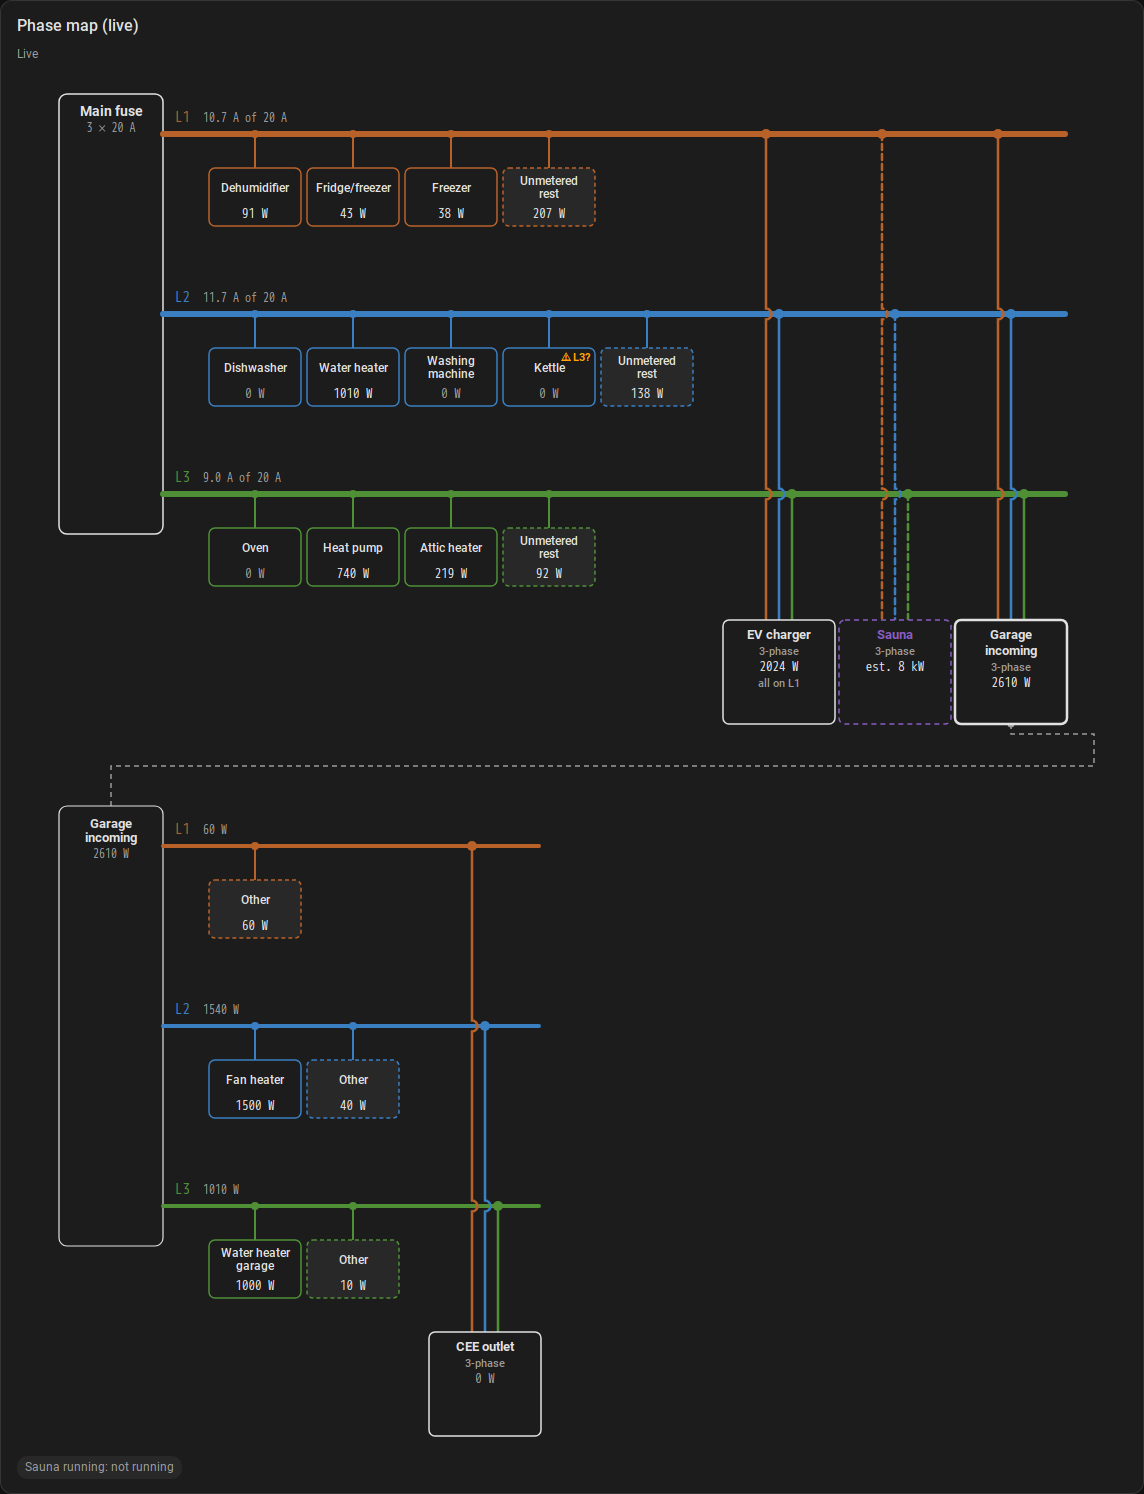
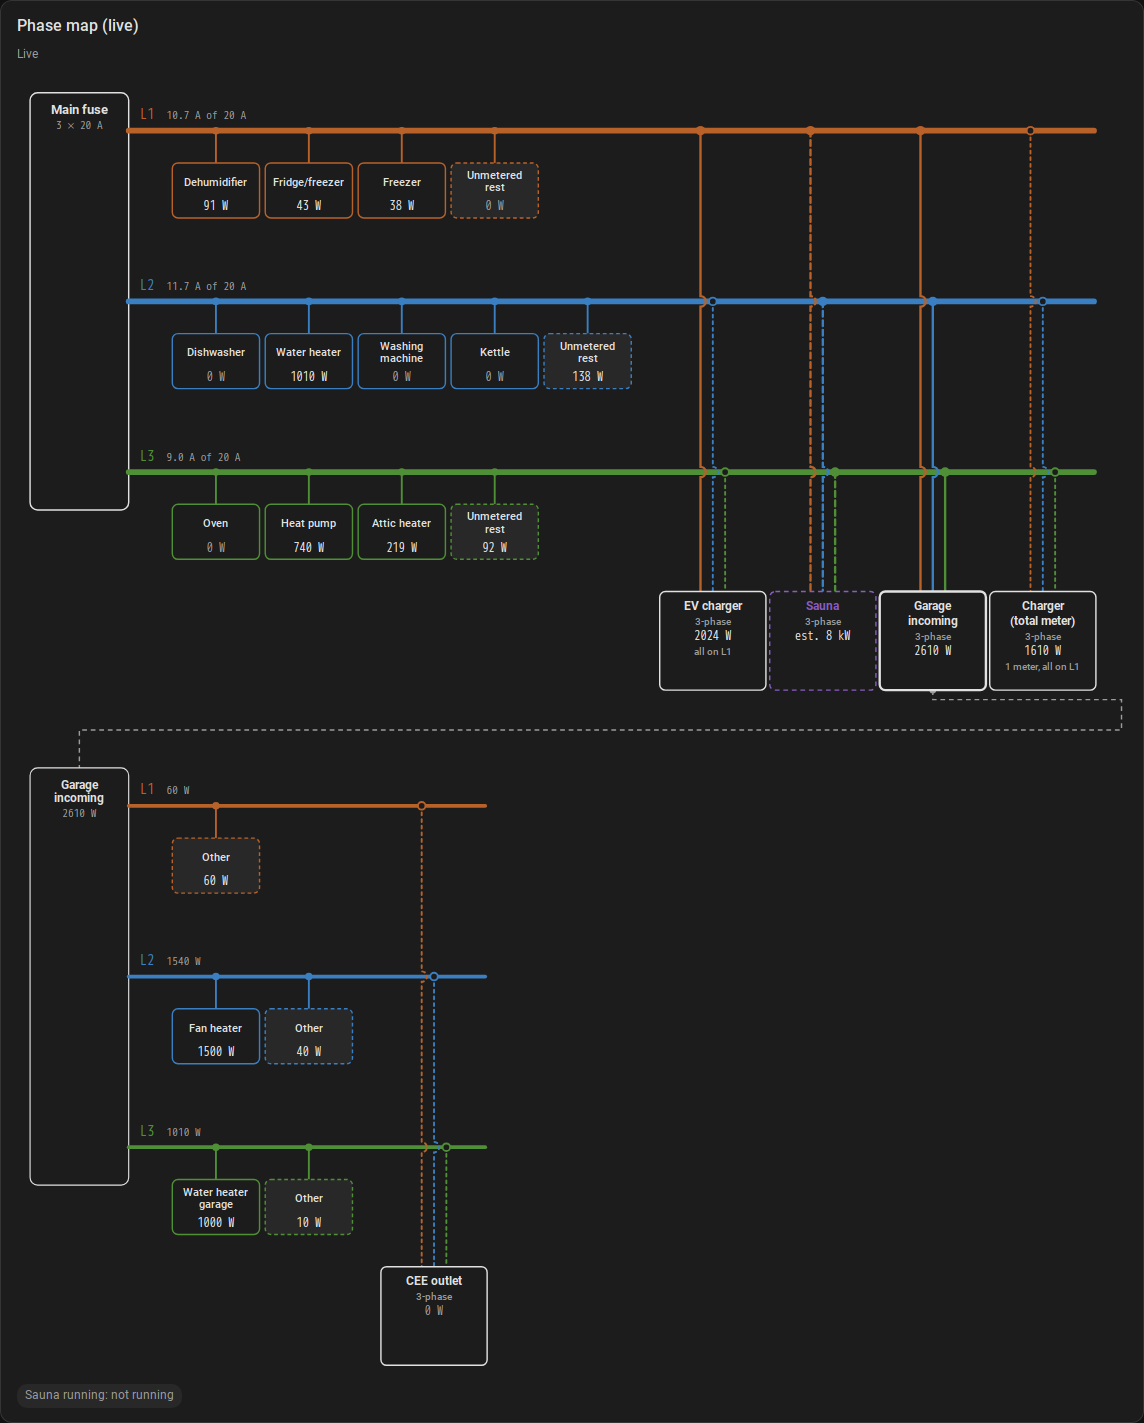
0.6.0: verified phases for multi-phase loads
Each multi-phase load reports the phases it has been seen drawing from.
With a meter per phase: the phase's meter showed at least 0.1 A, live or in
30 days of hourly max statistics. With one meter for several phases: the
main fuse or parent meter moved on that phase when the load switched, in
two live events or clearly in 10 days of statistics. A 3-phase charger
that has only charged a 1-phase car is verified on that phase only.

diff --git a/custom_components/phase_map/engine.py b/custom_components/phase_map/engine.py
@@ -46,10 +46,17 @@ from .const import (
     SUBENTRY_DETECTOR,
     SUBENTRY_LOAD,
 )
+from .detection import analyse, async_fetch_means
 from .hierarchy import descendants, effective_parents, split
-from .phase_check import POST_S, LoadCheck, PhaseChecker
+from .phase_check import LIVE_MIN_STEP_A, POST_S, LoadCheck, PhaseChecker
 
 _LOGGER = logging.getLogger(__name__)
+
+# A phase of a multi-phase load counts as verified once it has been seen carrying the load:
+VERIFY_A = 0.1            # a per-phase meter showed at least this much current (≈ 23 W; above meter noise)
+VERIFY_SHARE = 0.2        # one meter for several phases: the phase moved by this share of a step
+VERIFY_EVENTS = 2         # ... in this many live events
+VERIFY_HISTORY_DAYS = 30
 
 
 def to_amps(state: State | None, voltage: float) -> float | None:
@@ -159,6 +166,12 @@ class PhaseMapEngine:
         self.device_id: str | None = None   # the fuse device, set at setup
         self.checker = self._build_checker()
         self._pending: set = set()          # phase-check evaluations waiting for POST_S
+        # Multi-phase loads: the phases seen carrying them (others are drawn dashed)
+        self.verified: dict[str, set[str]] = {
+            load.subentry_id: set() for load in self.loads if len(load.phases) > 1 and not load.estimated
+        }
+        self._verify_hits: dict[str, dict[str, int]] = {lid: {} for lid in self.verified}
+        self._seed_task = None
 
     # --- phase check ---------------------------------------------------------------
 
@@ -241,6 +254,85 @@ class PhaseMapEngine:
         )
         self.recompute()
 
+    # --- verified phases of multi-phase loads ---------------------------------------
+
+    def _reference_for(self, load: LoadModel) -> tuple[dict[str, str], set[str]]:
+        """Upstream meters per phase for `load`, and meters that move with it anyway."""
+        by_id = {item.subentry_id: item for item in self.loads}
+        parent = self.parents.get(load.subentry_id)
+        reference = dict(by_id[parent].channels) if parent and by_id[parent].channels else dict(self.sources)
+        skip = set(self.sources.values()) | set(load.entities)
+        up = parent
+        while up:
+            skip.update(by_id[up].entities)
+            up = self.parents.get(up)
+        for child in descendants(self.loads, load.subentry_id):
+            if child in by_id:
+                skip.update(by_id[child].entities)
+        return reference, skip
+
+    def _verify_live(self, entity_id: str, old: float | None, new: float | None) -> None:
+        for load in self.loads:
+            if load.subentry_id not in self.verified:
+                continue
+            for phase, ent in load.channels.items():
+                if ent == entity_id and new is not None and abs(new) >= VERIFY_A:
+                    self.verified[load.subentry_id].add(phase)
+            if load.meter == entity_id and old is not None and new is not None and abs(new - old) >= LIVE_MIN_STEP_A:
+                self._schedule_meter_verify(load, self.checker.now(), new - old)
+
+    def _schedule_meter_verify(self, load: LoadModel, t_step: float, step_a: float) -> None:
+        @callback
+        def _evaluate(_now) -> None:
+            self._pending.discard(cancel)
+            reference, skip = self._reference_for(load)
+            response = self.checker.response(t_step, step_a, reference, skip)
+            if response is None:
+                return
+            sign = 1 if step_a > 0 else -1
+            hits = self._verify_hits[load.subentry_id]
+            changed = False
+            for phase, moved in response.items():
+                if phase in load.phases and moved * sign / abs(step_a) >= VERIFY_SHARE:
+                    hits[phase] = hits.get(phase, 0) + 1
+                    if hits[phase] >= VERIFY_EVENTS and phase not in self.verified[load.subentry_id]:
+                        self.verified[load.subentry_id].add(phase)
+                        changed = True
+            if changed:
+                self.recompute()
+
+        cancel = async_call_later(self.hass, POST_S, _evaluate)
+        self._pending.add(cancel)
+
+    async def _async_seed_verified(self) -> None:
+        """Phases already seen carrying each multi-phase load, from recorder statistics."""
+        def unit_of(entity_id: str) -> str | None:
+            state = self.hass.states.get(entity_id)
+            return state.attributes.get("unit_of_measurement") if state else None
+
+        try:
+            channel_ids = {e for load in self.loads if load.subentry_id in self.verified for e in load.channels.values()}
+            if channel_ids:
+                peaks = await async_fetch_means(self.hass, {e: unit_of(e) for e in channel_ids}, self.voltage,
+                                                VERIFY_HISTORY_DAYS, "hour", key="max")
+                for load in self.loads:
+                    for phase, ent in load.channels.items():
+                        if load.subentry_id in self.verified and any(abs(v) >= VERIFY_A for v in peaks.get(ent, {}).values()):
+                            self.verified[load.subentry_id].add(phase)
+            for load in self.loads:
+                if load.subentry_id not in self.verified or not load.meter:
+                    continue
+                reference, _ = self._reference_for(load)
+                ids = {load.meter, *reference.values()}
+                means = await async_fetch_means(self.hass, {e: unit_of(e) for e in ids}, self.voltage, 10, "5minute")
+                result = analyse(means.get(load.meter, {}), {p: means.get(e, {}) for p, e in reference.items()})
+                for phase, score in result.scores.items():
+                    if phase in load.phases and (score.gain or 0) >= VERIFY_SHARE and score.t >= 3:
+                        self.verified[load.subentry_id].add(phase)
+        except Exception as err:  # recorder missing or not ready  # noqa: BLE001
+            _LOGGER.debug("Could not read history to verify phases: %s", err)
+        self.recompute()
+
     @property
     def tracked_entities(self) -> list[str]:
         ids = set(self.sources.values())
@@ -252,6 +344,10 @@ class PhaseMapEngine:
         for entity_id in self.tracked_entities:
             self.checker.record(entity_id, to_amps(self.hass.states.get(entity_id), self.voltage))
         self._restore_issues()
+        if self.verified:
+            self._seed_task = self.hass.async_create_background_task(
+                self._async_seed_verified(), f"phase_map verify phases {self.entry.entry_id}"
+            )
         self._unsubs.append(
             async_track_state_change_event(self.hass, self.tracked_entities, self._on_state_change)
         )
@@ -268,6 +364,8 @@ class PhaseMapEngine:
         for cancel in self._pending:
             cancel()
         self._pending.clear()
+        if self._seed_task is not None and not self._seed_task.done():
+            self._seed_task.cancel()
 
     @callback
     def _on_state_change(self, event: Event[EventStateChangedData]) -> None:
@@ -275,6 +373,8 @@ class PhaseMapEngine:
         new = to_amps(event.data["new_state"], self.voltage)
         old = to_amps(event.data["old_state"], self.voltage)
         self.checker.record(entity_id, new)
+        if self.verified:
+            self._verify_live(entity_id, old, new)
         t_step = self.checker.step(entity_id, old, new)
         if t_step is not None:
             step_a = new - old
@@ -322,6 +422,8 @@ class PhaseMapEngine:
                 "a": {p: (round(a, 3) if a is not None else None) for p, a in own.items()},
                 "w": {p: (round(max(a, 0.0) * self.voltage) if a is not None else None) for p, a in own.items()},
             }
+            if load.subentry_id in self.verified:
+                row["verified"] = [p for p in load.phases if p in self.verified[load.subentry_id]]
             if load.meter:
                 row["meter"] = {"draw": load.draw if load.draw in load.connected else DRAW_EQUAL}
             if (check := self.checker.checks.get(load.subentry_id)) is not None:

diff --git a/tests/test_verified.py b/tests/test_verified.py
@@ -1,0 +1,91 @@
+"""Phases of a multi-phase load are verified once they have been seen carrying it."""
+
+from datetime import timedelta
+from unittest.mock import patch
+
+from freezegun.api import FrozenDateTimeFactory
+from homeassistant.config_entries import ConfigSubentryData
+from homeassistant.core import HomeAssistant
+from pytest_homeassistant_custom_component.common import MockConfigEntry, async_fire_time_changed
+
+from .conftest import SOURCES, set_amps
+
+EV = {"L1": "sensor.ev_l1", "L2": "sensor.ev_l2", "L3": "sensor.ev_l3"}
+
+
+def _entry(hass, subs):
+    entry = MockConfigEntry(
+        domain="phase_map", title="Main fuse",
+        data={"phases": ["L1", "L2", "L3"], "voltage": 230.0, "fuse_a": 20.0, "sources": SOURCES},
+        subentries_data=subs, unique_id="sensor.main_l1",
+    )
+    entry.add_to_hass(hass)
+    return entry
+
+
+def _row(entry, load_id):
+    return next(r for r in entry.runtime_data.payload()["loads"] if r["id"] == load_id)
+
+
+async def _setup(hass, subs, peaks=None):
+    async def fake_fetch(hass_, units, voltage, days, period, key="mean"):
+        if key == "max":
+            return {e: ({0.0: v} if v is not None else {}) for e, v in (peaks or {}).items() if e in units}
+        return {e: {} for e in units}
+
+    entry = _entry(hass, subs)
+    with patch("custom_components.phase_map.engine.async_fetch_means", side_effect=fake_fetch):
+        await hass.config_entries.async_setup(entry.entry_id)
+        await hass.async_block_till_done()
+    return entry
+
+
+async def test_one_phase_car_on_three_phase_charger(hass: HomeAssistant) -> None:
+    for e in SOURCES.values():
+        set_amps(hass, e, 3.0)
+    for e in EV.values():
+        set_amps(hass, e, 0.0)
+    sub = ConfigSubentryData(data={"name": "EV", "channels": EV}, subentry_id="sub_ev", subentry_type="load",
+                             title="EV", unique_id=None)
+    # history: the hybrid has only ever charged on L1
+    entry = await _setup(hass, [sub], peaks={"sensor.ev_l1": 16.0, "sensor.ev_l2": 0.0, "sensor.ev_l3": 0.0})
+    assert _row(entry, "sub_ev")["verified"] == ["L1"]
+    # a 3-phase car charges for the first time
+    set_amps(hass, "sensor.ev_l2", 10.0)
+    set_amps(hass, "sensor.ev_l3", 0.05)               # meter noise, does not count
+    await hass.async_block_till_done()
+    assert _row(entry, "sub_ev")["verified"] == ["L1", "L2"]
+
+
+async def test_single_phase_loads_have_no_verification(hass: HomeAssistant) -> None:
+    for e in SOURCES.values():
+        set_amps(hass, e, 3.0)
+    set_amps(hass, "sensor.kettle", 0.0)
+    entry = await _setup(hass, [ConfigSubentryData(data={"name": "Kettle", "channels": {"L2": "sensor.kettle"}},
+                                                   subentry_id="sub_k", subentry_type="load", title="Kettle",
+                                                   unique_id=None)])
+    assert "verified" not in _row(entry, "sub_k")
+
+
+async def test_one_meter_load_verified_from_main_fuse(hass: HomeAssistant, freezer: FrozenDateTimeFactory) -> None:
+    for e in SOURCES.values():
+        set_amps(hass, e, 3.0)
+    set_amps(hass, "sensor.cee", 0.0)
+    sub = ConfigSubentryData(data={"name": "CEE", "channels": {}, "meter": "sensor.cee",
+                                   "connected_phases": ["L1", "L2", "L3"], "draw": "equal"},
+                             subentry_id="sub_cee", subentry_type="load", title="CEE", unique_id=None)
+    entry = await _setup(hass, [sub])
+    assert _row(entry, "sub_cee")["verified"] == []
+    # a welder on L1 + L2 only, switched on and off twice
+    for _ in range(2):
+        for cee, l1, l2 in ((12.0, 9.0, 9.0), (0.0, 3.0, 3.0)):
+            freezer.tick(timedelta(seconds=30))
+            async_fire_time_changed(hass)
+            set_amps(hass, "sensor.main_l1", l1)
+            set_amps(hass, "sensor.main_l2", l2)
+            set_amps(hass, "sensor.cee", cee)
+            await hass.async_block_till_done()
+            freezer.tick(timedelta(seconds=11))
+            async_fire_time_changed(hass)
+            await hass.async_block_till_done()
+    assert _row(entry, "sub_cee")["verified"] == ["L1", "L2"]

diff --git a/custom_components/phase_map/phase_check.py b/custom_components/phase_map/phase_check.py
@@ -120,6 +120,9 @@ class PhaseChecker:
         self._clock = clock
         self.ignore_for: dict[str, set[str]] = {}   # load id -> entities that are not confounders
 
+    def now(self) -> float:
+        return self._clock()
+
     def record(self, entity_id: str, amps: float | None, t: float | None = None) -> None:
         self._series.setdefault(entity_id, _Series()).add(self._clock() if t is None else t, amps)
 
@@ -130,27 +133,40 @@ class PhaseChecker:
             return None
         return self._clock() if t is None else t
 
-    def evaluate(self, entity_id: str, t_step: float, step_a: float, now: datetime) -> str | None:
-        """Called POST_S after a step: record the vote, report a verdict change."""
-        check = self._by_entity.get(entity_id)
-        if check is None:
-            return None
+    def response(self, t_step: float, step_a: float, reference: dict[str, str],
+                 skip: set[str]) -> dict[str, float] | None:
+        """How much each reference phase moved around a step; None if spoiled or unknown.
+
+        Any tracked meter outside `skip` and the reference that moved by more than
+        CONFOUND_RATIO of the step in the same window spoils the event.
+        """
         before_t, after_t = t_step - PRE_S, t_step + POST_S
-        skip = {entity_id, *check.reference.values(), *self.ignore_for.get(check.load_id, set())}
+        skip = skip | set(reference.values())
         for other, series in self._series.items():
             if other in skip:
                 continue
             a, b = series.value_at(before_t), series.value_at(after_t)
             if a is not None and b is not None and abs(b - a) > CONFOUND_RATIO * abs(step_a):
                 return None
-        response: dict[str, float] = {}
-        for phase, ref in check.reference.items():
+        out: dict[str, float] = {}
+        for phase, ref in reference.items():
             series = self._series.get(ref)
             a = series.value_at(before_t) if series else None
             b = series.value_at(after_t) if series else None
             if a is None or b is None:
                 return None
-            response[phase] = abs(b) - abs(a)
+            out[phase] = abs(b) - abs(a)
+        return out
+
+    def evaluate(self, entity_id: str, t_step: float, step_a: float, now: datetime) -> str | None:
+        """Called POST_S after a step: record the vote, report a verdict change."""
+        check = self._by_entity.get(entity_id)
+        if check is None:
+            return None
+        skip = {entity_id, *self.ignore_for.get(check.load_id, set())}
+        response = self.response(t_step, step_a, check.reference, skip)
+        if response is None:
+            return None
         vote = classify(step_a, response)
         if vote is None:
             return None

diff --git a/custom_components/phase_map/detection.py b/custom_components/phase_map/detection.py
@@ -90,10 +90,10 @@ def analyse(meter: dict[float, float], phases: dict[str, dict[float, float]], st
     return Suggestion(best_phase, "high" if high else "medium", len(idx), scores, reason="ok")
 
 
-def _series(rows: list[dict[str, Any]], factor: float) -> dict[float, float]:
+def _series(rows: list[dict[str, Any]], factor: float, key: str = "mean") -> dict[float, float]:
     out = {}
     for row in rows:
-        mean = row.get("mean")
+        mean = row.get(key)
         if mean is None:
             continue
         start = row["start"]
@@ -108,9 +108,10 @@ def unit_factor(unit: str | None, voltage: float) -> float | None:
 
 
 async def async_fetch_means(
-    hass: HomeAssistant, entity_units: dict[str, str | None], voltage: float, days: float, period: str
+    hass: HomeAssistant, entity_units: dict[str, str | None], voltage: float, days: float, period: str,
+    key: str = "mean",
 ) -> dict[str, dict[float, float]]:
-    """Mean statistics in amps for several entities over the last `days`."""
+    """Mean (or max) statistics in amps for several entities over the last `days`."""
     from homeassistant.components.recorder import get_instance
     from homeassistant.components.recorder.statistics import statistics_during_period
 
@@ -118,12 +119,12 @@ async def async_fetch_means(
     start = end - timedelta(days=days)
     ids = set(entity_units)
     rows = await get_instance(hass).async_add_executor_job(
-        statistics_during_period, hass, start, end, ids, period, None, {"mean"}
+        statistics_during_period, hass, start, end, ids, period, None, {key}
     )
     out = {}
     for entity_id, unit in entity_units.items():
         factor = unit_factor(unit, voltage)
-        out[entity_id] = _series(rows.get(entity_id, []), factor) if factor else {}
+        out[entity_id] = _series(rows.get(entity_id, []), factor, key) if factor else {}
     return out
 
 

diff --git a/README.md b/README.md
@@ -140,7 +140,16 @@ connected to** for the other phases. HA Phase Map then:
   or **split equally** over the connected phases (a 3-phase car, a 3-phase heater);
 - leaves it out of the phase check, since its phases are your declaration.
 
-When the car changes, edit the load and switch between the two. A load with one meter per
+When the car changes, edit the load and switch between the two.
+
+### Verified and unverified phases
+
+For every multi-phase load, HA Phase Map notes which phases it has actually been seen drawing
+from, and the card draws the others **dashed**. With a meter per phase, a phase is verified once
+its meter has shown at least 0.1 A, live or in the last 30 days of history: a 3-phase charger
+that has only ever charged a 1-phase car is solid on L1 and dashed on L2 and L3 until a 3-phase
+car charges. With one meter for several phases, a phase is verified when the main fuse (or the
+meter above it) moves on that phase as the load switches on and off. A load with one meter per
 phase (**A multi-phase load**) never needs this: its per-phase values are measured.
 
 ### Meters behind other meters

diff --git a/docs/design.md b/docs/design.md
@@ -8,7 +8,10 @@ phase check with repairs and portable loads (section 5a), sub-panels in the card
 new-meter discovery (section 6), guided test mode. **0.4.0** (2026-10-11): phase labels on
 devices (`labels.py`). **0.5.0**: one-meter multi-phase loads (`meter`, `connected_phases`,
 `draw`: equal or the phase it draws from), declared rather than inferred, excluded from the
-phase check.
+phase check. **0.6.0**: `verified` phases per multi-phase load (per-phase meter ≥ 0.1 A
+live or in 30 days of hourly max statistics; one-meter loads from main-fuse response, 2 live
+events with ≥ 20 % of the step, or `analyse()` gain ≥ 0.2 and t ≥ 3 over 10 days); the card
+dashes unverified conductors.
 Written from a working prototype on one installation (3 × 230 V, 3 × 20 A, ~20 sub-meters).
 
 ## 1. Problem

diff --git a/CHANGELOG.md b/CHANGELOG.md
@@ -1,5 +1,14 @@
 # Changelog
 
+## 0.6.0 (unreleased)
+
+- **Verified phases.** For every multi-phase load, the payload lists the phases it has been
+  seen drawing from (`verified`). With a meter per phase: the phase's meter showed at least
+  0.1 A, live or in the last 30 days of statistics. With one meter for several phases: the
+  main fuse (or the parent meter) moved on that phase when the load switched, in 2 live events
+  or clearly in the last 10 days of statistics. A 3-phase charger that has only ever charged a
+  1-phase car is verified on that one phase.
+
 ## 0.5.0 (unreleased)
 
 - **Multi-phase loads with one meter.** A load measured by a single total meter (a CEE outlet,
